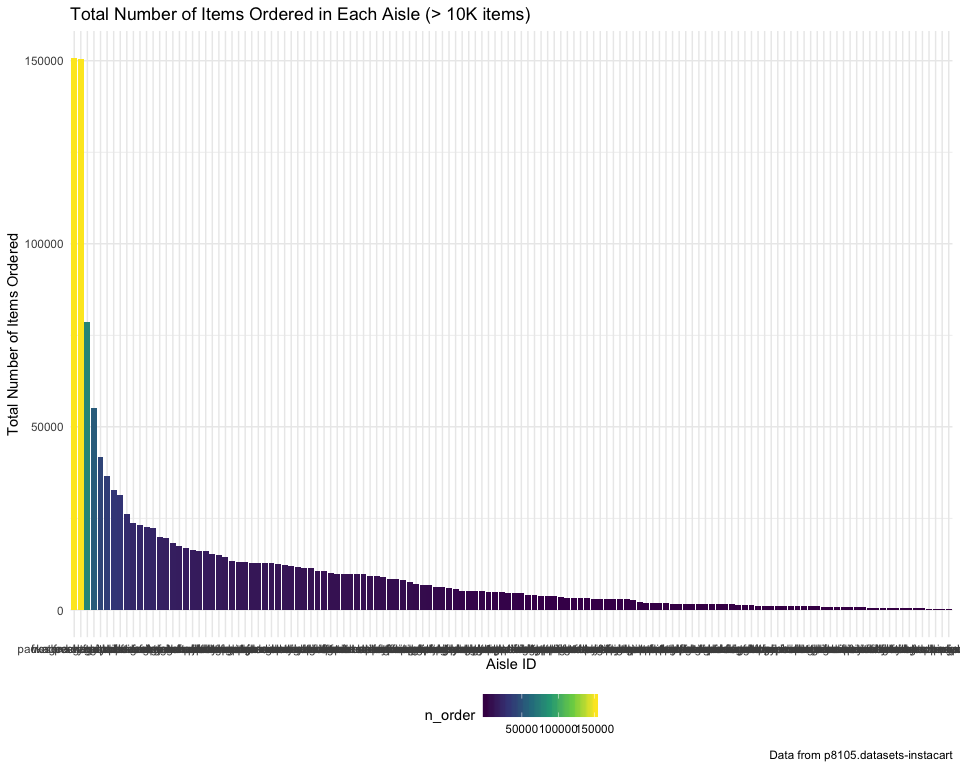
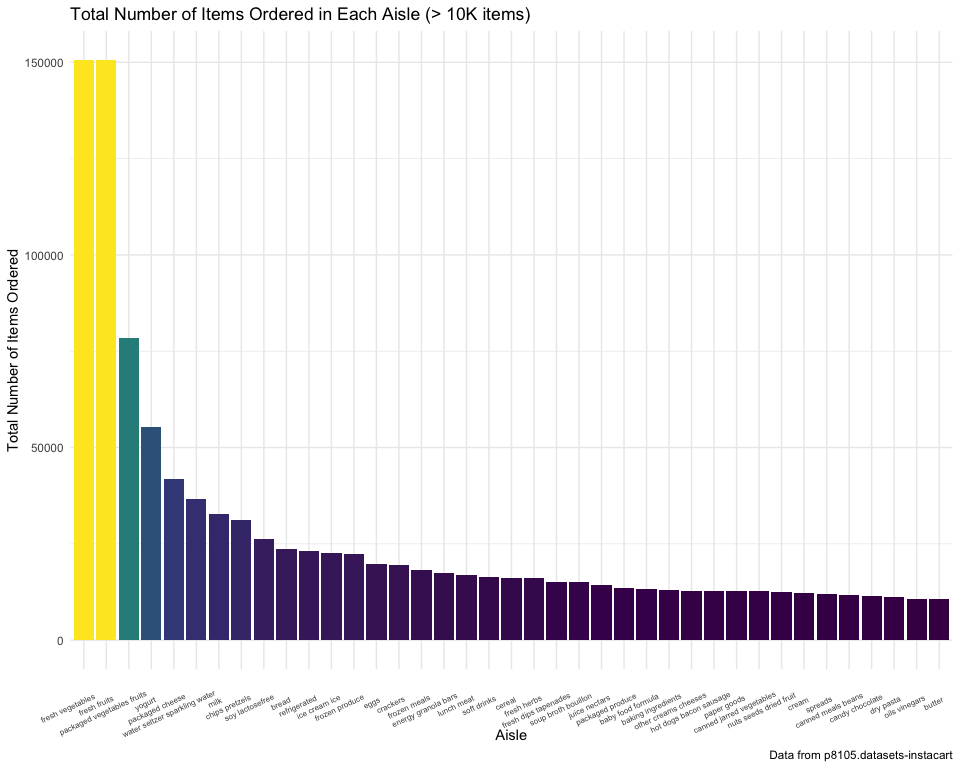
Final Version of HW3

diff --git a/P8105_hw3_yc384.md b/P8105_hw3_yc384.md
@@ -33,14 +33,14 @@ setwd(“/Users/macbook/Documents/Statistics/P8105/HW/P8105\_HW3\_yc384”)
 library (tidyverse)
 ```
 
-    ## ── Attaching packages ──────────────────────────────────────── tidyverse 1.2.1 ──
+    ## ── Attaching packages ───────────────────────────────────────── tidyverse 1.2.1 ──
 
     ## ✔ ggplot2 3.2.1     ✔ purrr   0.3.2
     ## ✔ tibble  2.1.3     ✔ dplyr   0.8.3
     ## ✔ tidyr   1.0.0     ✔ stringr 1.4.0
     ## ✔ readr   1.3.1     ✔ forcats 0.4.0
 
-    ## ── Conflicts ─────────────────────────────────────────── tidyverse_conflicts() ──
+    ## ── Conflicts ──────────────────────────────────────────── tidyverse_conflicts() ──
     ## ✖ dplyr::filter() masks stats::filter()
     ## ✖ dplyr::lag()    masks stats::lag()
 
@@ -234,6 +234,7 @@ using this online ordering service are healthy eaters.
 instacart %>%
  group_by(aisle) %>% 
   summarize(n_order = n()) %>%
+  filter(n_order > 10000) %>% 
   mutate(rank = rank(n_order)) %>% 
   arrange(desc(rank)) %>% 
   # plot scatterplot
@@ -242,10 +243,14 @@ instacart %>%
    geom_bar(stat = "identity", aes(fill = n_order, show.legend = FALSE)) +
     labs(
       title = "Total Number of Items Ordered in Each Aisle (> 10K items)",
-      x = "Aisle ID",
+      x = "Aisle",
       y = "Total Number of Items Ordered",
       caption = "Data from p8105.datasets-instacart"
-      ) 
+      ) +
+theme(legend.position = "none",  
+        axis.text.x = element_text(hjust = 0.8, vjust = 0.5,                  
+                       size = 6, angle = 25
+        ))
 ```
 
 <img src="P8105_hw3_yc384_files/figure-gfm/Plot_Order-1.png" width="100%" />
@@ -734,7 +739,7 @@ accel %>%
 theme(text = element_text(size=20))
 ```
 
-<img src="P8105_hw3_yc384_files/figure-gfm/unnamed-chunk-10-1.png" width="100%" />
+<img src="P8105_hw3_yc384_files/figure-gfm/unnamed-chunk-9-1.png" width="100%" />
 
 #### 3-2-3 Describe in words any patterns or conclusions you can make based on this graph.
 
